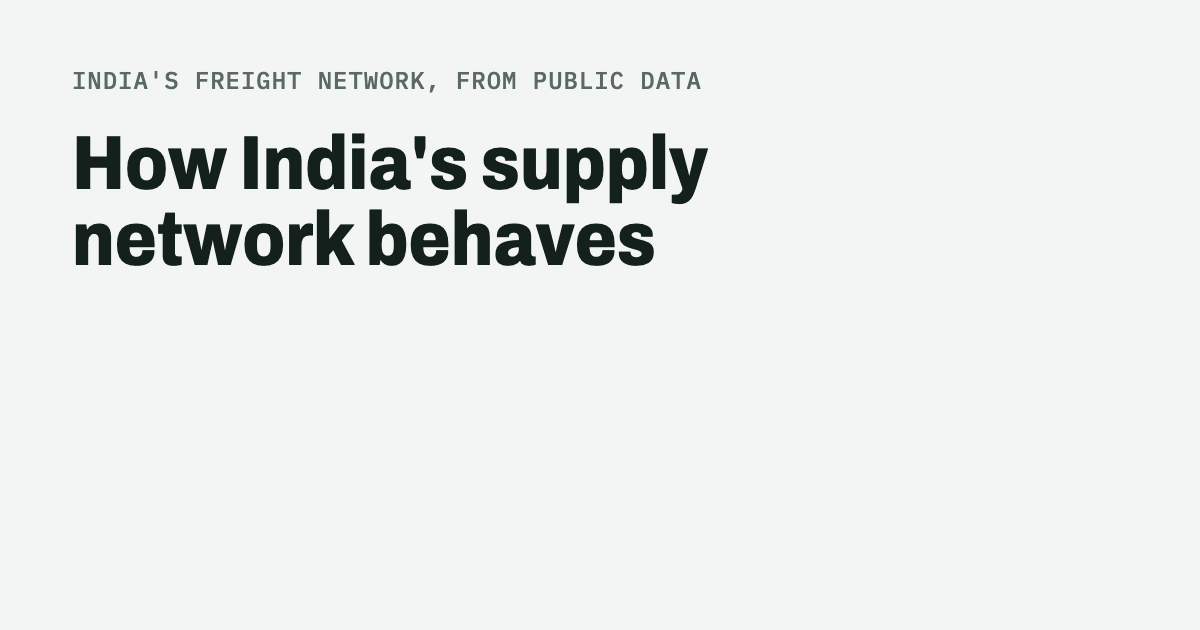
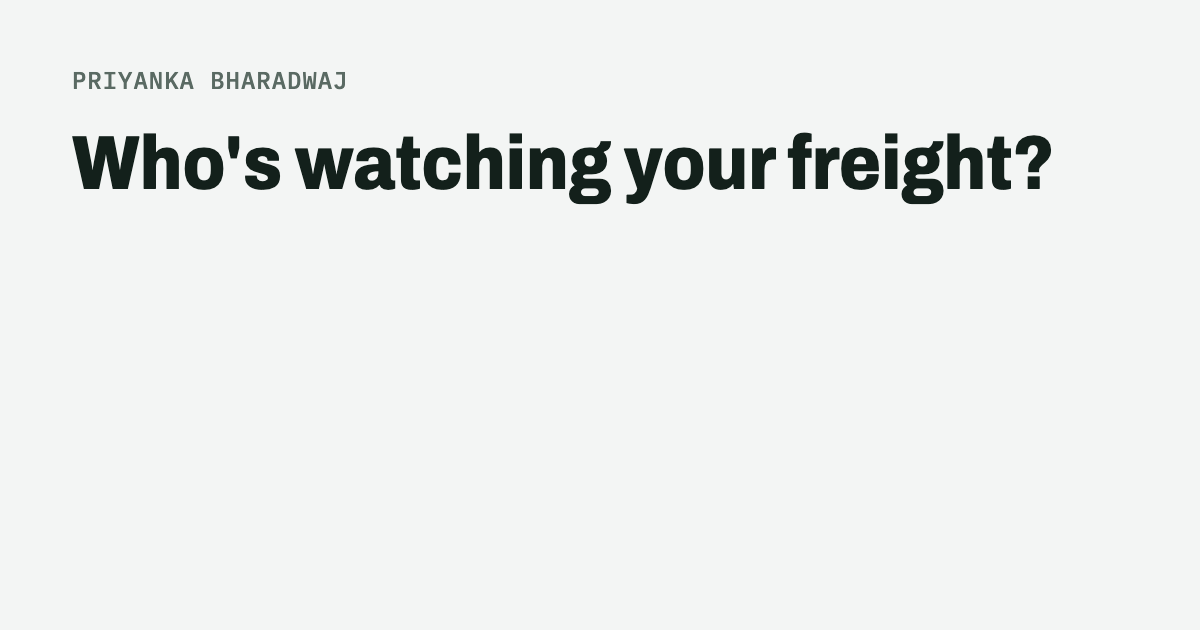
Update site

Changed region(s): [[0.0617, 0.2111, 0.8942, 0.4222], [0.0617, 0.0905, 0.5858, 0.1508]]

diff --git a/index.html b/index.html
@@ -1,6 +1,6 @@
 <!doctype html>
-<html lang="en"><head><meta charset="utf-8"><meta name="viewport" content="width=device-width,initial-scale=1"><meta name="description" content="What 35 daily bulletins, a seasonal baseline and a reference network turned up about India&#x27;s roads, ports, seasons and parcels. Every finding comes from public data and links to the work behind it."><meta property="og:title" content="How India&#x27;s supply network behaves"><meta property="og:description" content="What 35 daily bulletins, a seasonal baseline and a reference network turned up about India&#x27;s roads, ports, seasons and parcels. Every finding comes from public data and links to the work behind it."><meta property="og:url" content="https://thefavrito.github.io/"><meta property="og:type" content="article"><meta property="og:image" content="https://thefavrito.github.io/og.png"><meta name="twitter:card" content="summary_large_image">
-<title>How India&#x27;s supply network behaves</title>
+<html lang="en"><head><meta charset="utf-8"><meta name="viewport" content="width=device-width,initial-scale=1"><meta name="description" content="I spent a decade in manufacturing and supply chain working with Toyota, Amazon and Delhivery. I&#x27;ve seen that big companies are able to invest in their own control towers, so they are able to spot disruptions earlier than most, and sometimes even predict them. However, smaller companies are often reliant on their vendors for such information. It&#x27;s often too late, and costs them a lot. So I&#x27;m testing a hypothesis: can a control tower built only from public data do that job for smaller companies moving goods into, out of and within India? May be it can, may be it can&#x27;t. That&#x27;s what I am dabbling with here."><meta property="og:title" content="Who&#x27;s watching your freight?"><meta property="og:description" content="I spent a decade in manufacturing and supply chain working with Toyota, Amazon and Delhivery. I&#x27;ve seen that big companies are able to invest in their own control towers, so they are able to spot disruptions earlier than most, and sometimes even predict them. However, smaller companies are often reliant on their vendors for such information. It&#x27;s often too late, and costs them a lot. So I&#x27;m testing a hypothesis: can a control tower built only from public data do that job for smaller companies moving goods into, out of and within India? May be it can, may be it can&#x27;t. That&#x27;s what I am dabbling with here."><meta property="og:url" content="https://thefavrito.github.io/"><meta property="og:type" content="article"><meta property="og:image" content="https://thefavrito.github.io/og.png"><meta name="twitter:card" content="summary_large_image">
+<title>Who&#x27;s watching your freight?</title>
 <link rel="preconnect" href="https://fonts.googleapis.com">
 <link rel="stylesheet" href="https://fonts.googleapis.com/css2?family=Archivo:wdth,wght@75..100,500..800&family=IBM+Plex+Sans:wght@400;500;600&family=IBM+Plex+Mono:wght@400;500&display=swap">
 <style>
@@ -387,8 +387,8 @@ document.addEventListener('click', function (e) {
 </head><body><nav class="sitenav top" aria-label="Site"><button class="burger" type="button" aria-expanded="false" aria-controls="navlinks"><span aria-hidden="true">&#9776;</span> Menu</button><div class="links" id="navlinks"><a href="/">Home</a><a href="/about/">About</a><a href="/bulletin/">Bulletin</a><a href="/monitor/">Monitor</a><a href="/blog/">Blog</a><a href="https://www.linkedin.com/in/priyanka-bharadwaj/" target="_blank" rel="noopener">Get in Touch</a></div></nav>
 
 
-<style>.folio{max-width:1180px;margin:0 auto}.folio .sign{display:inline-block;background:var(--accent);color:#fff;font:700 12.5px var(--display);letter-spacing:.06em;text-transform:uppercase;padding:5px 11px;border-radius:6px;box-shadow:inset 0 0 0 2px var(--accent),inset 0 0 0 4px #fff}.folio .top{padding:18px 0 26px;border-bottom:3px solid var(--ink)}.folio .top h1{font-weight:900;font-size:clamp(40px,6.4vw,78px);line-height:1;margin:12px 0 16px;max-width:15ch}.folio .top p{font-size:19px;line-height:1.6;max-width:760px;margin:0;color:#2A3A33;text-align:justify;hyphens:auto}.folio .top .by{font:500 13px var(--mono);color:var(--muted);margin-top:14px;text-align:left}.folio h2{font-family:var(--display);font-stretch:88%;font-weight:800;font-size:30px;text-transform:none;letter-spacing:0;color:var(--ink);margin:30px 0 18px}.folio a{text-decoration:none;color:inherit}.folio .ins{display:grid;grid-template-columns:repeat(3,minmax(0,1fr));gap:18px}.folio .find{background:var(--surface);border:1px solid var(--line);border-top:5px solid var(--accent);display:flex;flex-direction:column;transition:box-shadow .2s}.folio .find:hover{box-shadow:0 10px 28px rgba(19,32,27,.12)}.folio .find img{width:100%;aspect-ratio:16/10;object-fit:cover;object-position:left top;border-bottom:1px solid var(--line);background:#fff}.folio .find .b{padding:16px 18px 18px}.folio .find .n{font-family:var(--display);font-stretch:88%;font-weight:900;font-size:52px;line-height:1;color:var(--accent)}.folio .find h3{font-family:var(--display);font-stretch:88%;font-size:21px;font-weight:700;line-height:1.2;margin:8px 0 8px;letter-spacing:0}.folio .find p{font-size:14.5px;line-height:1.55;margin:0;color:#33433C;text-align:justify;hyphens:auto}.folio .mos{display:grid;grid-template-columns:repeat(6,minmax(0,1fr));grid-auto-rows:200px;gap:14px}.folio .t{position:relative;overflow:hidden;border-radius:10px;background:#fff;border:1px solid var(--line)}.folio .t img{width:100%;height:100%;object-fit:cover;object-position:top;transition:transform .4s}.folio .t:hover img{transform:scale(1.04)}.folio .t .cap{position:absolute;inset:auto 0 0 0;padding:80px 18px 16px;background:linear-gradient(rgba(8,22,16,0),rgba(8,22,16,.94) 55%);color:#fff}.folio .t h3{font-family:var(--display);font-stretch:88%;font-size:24px;font-weight:800;margin:8px 0 2px;letter-spacing:0;color:#fff}.folio .t p{font-size:13.5px;margin:0;color:#DCEBE4;line-height:1.5}.folio .t:nth-child(1),.folio .t:nth-child(2){grid-column:span 3;grid-row:span 2}.folio .t{grid-column:span 2}.folio .close{margin:34px 0 0;padding:18px 0 0;border-top:1px solid var(--line)}.folio .close p{font-size:15.5px;color:var(--muted);margin:0;max-width:820px}@media (max-width:900px){.folio .ins{grid-template-columns:repeat(2,minmax(0,1fr))}}@media (max-width:640px){.folio .ins{grid-template-columns:minmax(0,1fr)}.folio .mos{grid-template-columns:minmax(0,1fr);grid-auto-rows:210px}.folio .t,.folio .t:nth-child(1),.folio .t:nth-child(2){grid-column:auto;grid-row:auto}.folio .top p{font-size:17px}.folio h2{font-size:26px}}</style>
-<div class="wrap folio"><header class="top"><span class="sign">India's freight network, from public data</span><h1>How India&#x27;s supply network behaves</h1><p>What 35 daily bulletins, a seasonal baseline and a reference network turned up about India's roads, ports, seasons and parcels. Every finding comes from public data and links to the work behind it.</p><p class="by">By Priyanka Bharadwaj · <a href="/about/" style="color:var(--accent);text-decoration:underline">About</a></p></header><section><h2>What the data shows</h2><div class="ins"><a class="find" href="/blog/2026-10-15-truck-into-bihar/"><img src="/img/pages-blog-images-2026-10-15-truck-into-bihar.jpg" alt="" loading="lazy"><div class="b"><div class="n">6x</div><h3>Bihar takes in six consignments for every one it sends</h3><p>That's from 12 months of GST e-way bills; Kerala takes in four, the north-eastern states 8 to 26. A truck that delivers in has little to bring back, so the trip in likely costs more. On FR8, a trucking marketplace, a 32-foot truck cost ₹45,500 from Kolkata to Patna and ₹23,500 back.</p></div></a><a class="find" href="/blog/2026-10-19-cyclone/"><img src="/img/pages-blog-images-2026-10-19-cyclone.jpg" alt="" loading="lazy"><div class="b"><div class="n">4 years</div><h3>A Bay of Bengal cyclone has made landfall in the last week of October four years running</h3><p>Sitrang and Hamoon crossed into Bangladesh on 24 October 2022 and 2023, Dana hit Odisha on 25 October 2024 and Montha hit Andhra Pradesh on 28 October 2025. Dana alone cancelled 400 trains in Odisha and West Bengal.</p></div></a><a class="find" href="/blog/2026-11-12-delhi-traffic/"><img src="/img/pages-blog-images-2026-11-12-delhi-traffic.jpg" alt="" loading="lazy"><div class="b"><div class="n">68 min</div><h3>A 30-minute drive in Delhi took up to 68 minutes in the week before Diwali</h3><p>That's a drive of 30 minutes on an empty road. On Diwali itself, even the busiest hour took 35. That week an afternoon drive took 25% longer than usual, and the nine other cities I tracked followed the same curve.</p></div></a><a class="find" href="/network/"><img src="/img/data-network-charts-carriers.svg" alt="" loading="lazy"><div class="b"><div class="n">20 million</div><h3>India moves about 20 million parcels a day</h3><p>That's about 7.4 billion a year (somewhere between 6.1 and 8.9 billion), pieced together from what each network publishes. Amazon and Ekart publish no count, so their share is what's left of the market.</p></div></a><a class="find" href="/blog/2026-10-27-50-first-dates/"><img src="/img/pages-blog-images-2026-10-27-50-first-dates.jpg" alt="" loading="lazy"><div class="b"><div class="n">1 week</div><h3>Left alone for a week, the AI led on sales while a cyclone was brewing</h3><p>I let it run the bulletin without reading a single edition. Every one led with festive sales or quick commerce. It had a manual for building the page, but nothing telling it what mattered most.</p></div></a><a class="find" href="/bulletin/"><img src="/img/editions-2026-11-2026-11-10-ed035-page-1.png" alt="" loading="lazy"><div class="b"><div class="n">9 of 12</div><h3>9 of 12 calls scored in public were right</h3><p>Every Monday the bulletin made testable calls and scored them a week later against a public source: 9 right, 1 partly right and 2 wrong. Three were still open when it ended.</p></div></a></div></section><section><h2>The work behind it</h2><div class="mos"><a class="t" href="/monitor/"><img src="/img/pages-portfolio-monitor.png" alt="" loading="lazy"><div class="cap"><span class="sign">Live</span><h3>India Freight Monitor</h3><p>India's ports, sea routes, highway corridors and customs gateways against their normal, updated every morning</p></div></a><a class="t" href="/bulletin/"><img src="/img/editions-2026-11-2026-11-10-ed035-page-1.png" alt="" loading="lazy"><div class="cap"><span class="sign">Daily</span><h3>India Network Bulletin</h3><p>35 editions, 7 October to 10 November 2026</p></div></a><a class="t" href="/seasons/"><img src="/img/data-seasons-months.svg" alt="" loading="lazy"><div class="cap"><span class="sign">Reference</span><h3>Seasonal Outlook</h3><p>What normal looks like for India's freight, month by month</p></div></a><a class="t" href="/network/"><img src="/img/data-network-trucks.svg" alt="" loading="lazy"><div class="cap"><span class="sign">Reference</span><h3>Reference network</h3></div></a><a class="t" href="/diwali/"><img src="/img/pages-portfolio-festive-calendar.png" alt="" loading="lazy"><div class="cap"><span class="sign">Reference</span><h3>Festive calendar</h3></div></a><a class="t" href="/blog/"><img src="/img/pages-blog-images-2026-10-12-what-normal-looks-like.jpg" alt="" loading="lazy"><div class="cap"><span class="sign">Writing</span><h3>Blog</h3></div></a></div></section><section class="close"><p>I'm Priyanka Bharadwaj. I ran operations planning and the control tower at Delhivery, and worked in supply chain at Amazon and Toyota. Claude gathers the data and drafts; I set the rules, make the calls and edit every line.</p></section></div>
+<style>.folio{max-width:1180px;margin:0 auto}.folio .sign{display:inline-block;background:var(--accent);color:#fff;font:700 12.5px var(--display);letter-spacing:.06em;text-transform:uppercase;padding:5px 11px;border-radius:6px;box-shadow:inset 0 0 0 2px var(--accent),inset 0 0 0 4px #fff}.folio .top{padding:18px 0 26px;border-bottom:3px solid var(--ink)}.folio .top h1{font-weight:900;font-size:clamp(40px,6.4vw,78px);line-height:1;margin:12px 0 16px}.folio .top p{font-size:19px;line-height:1.6;margin:0 0 14px;color:#2A3A33;text-align:justify;hyphens:auto}.folio .top .by{font:500 13px var(--mono);color:var(--muted);margin-top:14px;text-align:left}.folio h2{font-family:var(--display);font-stretch:88%;font-weight:800;font-size:30px;text-transform:none;letter-spacing:0;color:var(--ink);margin:30px 0 18px}.folio a{text-decoration:none;color:inherit}.folio .ins{display:grid;grid-template-columns:repeat(3,minmax(0,1fr));gap:18px}.folio .find{background:var(--surface);border:1px solid var(--line);border-top:5px solid var(--accent);display:flex;flex-direction:column;transition:box-shadow .2s}.folio .find:hover{box-shadow:0 10px 28px rgba(19,32,27,.12)}.folio .find img{width:100%;aspect-ratio:16/10;object-fit:cover;object-position:left top;border-bottom:1px solid var(--line);background:#fff}.folio .find .b{padding:16px 18px 18px}.folio .find .n{font-family:var(--display);font-stretch:88%;font-weight:900;font-size:52px;line-height:1;color:var(--accent)}.folio .find h3{font-family:var(--display);font-stretch:88%;font-size:21px;font-weight:700;line-height:1.2;margin:8px 0 8px;letter-spacing:0}.folio .find p{font-size:14.5px;line-height:1.55;margin:0;color:#33433C;text-align:justify;hyphens:auto}.folio .mos{display:grid;grid-template-columns:repeat(4,minmax(0,1fr));gap:18px}.folio .t{display:flex;flex-direction:column;background:var(--surface);border:1px solid var(--line);border-top:5px solid var(--accent);transition:box-shadow .2s}.folio .t:hover{box-shadow:0 10px 28px rgba(19,32,27,.12)}.folio .t img{width:100%;aspect-ratio:16/10;object-fit:cover;object-position:left top;border-bottom:1px solid var(--line);background:#fff;display:block}.folio .t .cap{padding:14px 16px 16px}.folio .t .sign{font-size:11px;padding:4px 9px}.folio .t h3{font-family:var(--display);font-stretch:88%;font-size:22px;font-weight:800;margin:10px 0 6px;letter-spacing:0;color:var(--ink)}.folio .t p{font-size:14.5px;margin:0;color:#33433C;line-height:1.55;text-align:justify;hyphens:auto}.folio .t:first-child{grid-column:1/-1;display:grid;grid-template-columns:3fr 2fr;align-items:center}.folio .t:first-child img{aspect-ratio:16/9;border-bottom:0;border-right:1px solid var(--line)}.folio .t:first-child .cap{padding:24px 28px}.folio .t:first-child h3{font-size:34px}.folio .t:first-child p{font-size:17px}.folio .close{margin:38px 0 0;padding:22px 0 0;border-top:3px solid var(--ink)}.folio .close p{font-size:19px;line-height:1.6;color:var(--ink);margin:0;text-align:justify;hyphens:auto}.folio .close a{color:var(--accent);text-decoration:underline;font-weight:600}@media (max-width:900px){.folio .ins{grid-template-columns:repeat(2,minmax(0,1fr))}.folio .mos{grid-template-columns:repeat(2,minmax(0,1fr))}.folio .t:first-child{display:flex}.folio .t:first-child img{border-right:0;border-bottom:1px solid var(--line)}.folio .t:first-child h3{font-size:28px}}@media (max-width:640px){.folio .ins,.folio .mos{grid-template-columns:minmax(0,1fr)}.folio .top p,.folio .close p{font-size:17px}.folio h2{font-size:26px}.folio .t:first-child .cap{padding:14px 16px 16px}.folio .t:first-child p{font-size:15px}}</style>
+<div class="wrap folio"><header class="top"><span class="sign">Priyanka Bharadwaj</span><h1>Who&#x27;s watching your freight?</h1><p>I spent a decade in manufacturing and supply chain working with Toyota, Amazon and Delhivery. I've seen that big companies are able to invest in their own control towers, so they are able to spot disruptions earlier than most, and sometimes even predict them. However, smaller companies are often reliant on their vendors for such information. It's often too late, and costs them a lot.</p><p>So I'm testing a hypothesis: can a control tower built only from public data do that job for smaller companies moving goods into, out of and within India? May be it can, may be it can't. That's what I am dabbling with here.</p></header><section><h2>What I've built so far</h2><div class="mos"><a class="t" href="/monitor/"><img src="/img/pages-portfolio-monitor.png" alt="" loading="lazy"><div class="cap"><span class="sign">Live</span><h3>India Freight Monitor</h3><p>India's ports, sea routes, highway corridors and customs gateways, each checked against its own normal every morning. Anything off normal is marked amber or red, with the news that may explain it.</p></div></a><a class="t" href="/bulletin/"><img src="/img/editions-2026-11-2026-11-10-ed035-page-1.png" alt="" loading="lazy"><div class="cap"><span class="sign">35 editions</span><h3>India Network Bulletin</h3><p>A daily read on what was slowing freight across India and what it meant for freight during Dasara &amp; Diwali peak this year, 7 October to 10 November 2026.</p></div></a><a class="t" href="/seasons/"><img src="/img/data-seasons-months.svg" alt="" loading="lazy"><div class="cap"><span class="sign">Reference</span><h3>Seasonal Outlook</h3><p>What normal looks like in India month by month: rain, fog, festivals, harvests, port closures. You can't call anything off normal without it.</p></div></a><a class="t" href="/network/"><img src="/img/data-network-trucks.svg" alt="" loading="lazy"><div class="cap"><span class="sign">Reference</span><h3>Reference network</h3><p>How India's freight actually moves: the main hubs and trunk roads, trucks counted at toll plazas, and cargo by port and airport.</p></div></a><a class="t" href="/blog/"><img src="/img/pages-blog-images-2026-10-12-what-normal-looks-like.jpg" alt="" loading="lazy"><div class="cap"><span class="sign">Writing</span><h3>Blog</h3><p>Random interesting findings from the data I've been collecting.</p></div></a></div></section><section><h2>What can public data catch?</h2><div class="ins"><a class="find" href="/blog/2026-10-19-cyclone/"><div class="b"><div class="n">4 years</div><h3>Late October has brought a Bay of Bengal cyclone</h3><p>Sitrang and Hamoon crossed into Bangladesh on 24 October 2022 and 2023, Dana hit Odisha on 25 October 2024 and Montha hit Andhra Pradesh on 28 October 2025. Dana alone cancelled 400 trains in Odisha and West Bengal. A disruption that keeps to a calendar is one you can plan for.</p></div></a><a class="find" href="/blog/2026-10-15-truck-into-bihar/"><div class="b"><div class="n">6x</div><h3>Bihar takes in far more than it sends</h3><p>Six consignments in for every one out, from 12 months of GST e-way bills; Kerala takes in four, the north-eastern states 8 to 26. A truck that delivers there has little to bring back, so the trip in likely costs more. On FR8, a trucking marketplace, a 32-foot truck cost ₹45,500 from Kolkata to Patna and ₹23,500 back.</p></div></a><a class="find" href="/bulletin/"><div class="b"><div class="n">9 of 12</div><h3>Calls I made in public, then scored</h3><p>Every Monday the bulletin made testable calls and checked them a week later against a public source: 9 right, 1 partly right and 2 wrong. Three were still open when it ended.</p></div></a></div></section><section class="close"><p>If you move goods in, out of or within India, I'd love to hear about the last disruption that caught you out. How did you find out, how late, and what would have helped? <a href="https://www.linkedin.com/in/priyanka-bharadwaj/">Message me on LinkedIn</a>.</p></section></div>
 <nav class="sitenav" aria-label="More"><a href="/diwali/">Festive calendar</a><a href="/seasons/">Seasonal Outlook</a><a href="/network/">Reference network</a><a href="/archive/">All editions (list)</a></nav>
 
 <script>(function(){function fit(){var m=document.querySelector("header.mast");if(!m)return;var r=m.getBoundingClientRect();document.querySelectorAll(".sitenav").forEach(function(n){n.style.maxWidth=r.width+"px";n.style.paddingLeft=n.style.paddingRight="0";n.style.marginLeft="0";n.style.marginLeft=(r.left-n.getBoundingClientRect().left)+"px"})}addEventListener("load",fit);addEventListener("resize",fit);var t=document.querySelector(".sitenav.top"),b=t&&t.querySelector(".burger");if(b)b.addEventListener("click",function(){b.setAttribute("aria-expanded",t.classList.toggle("open"))})})()</script>
